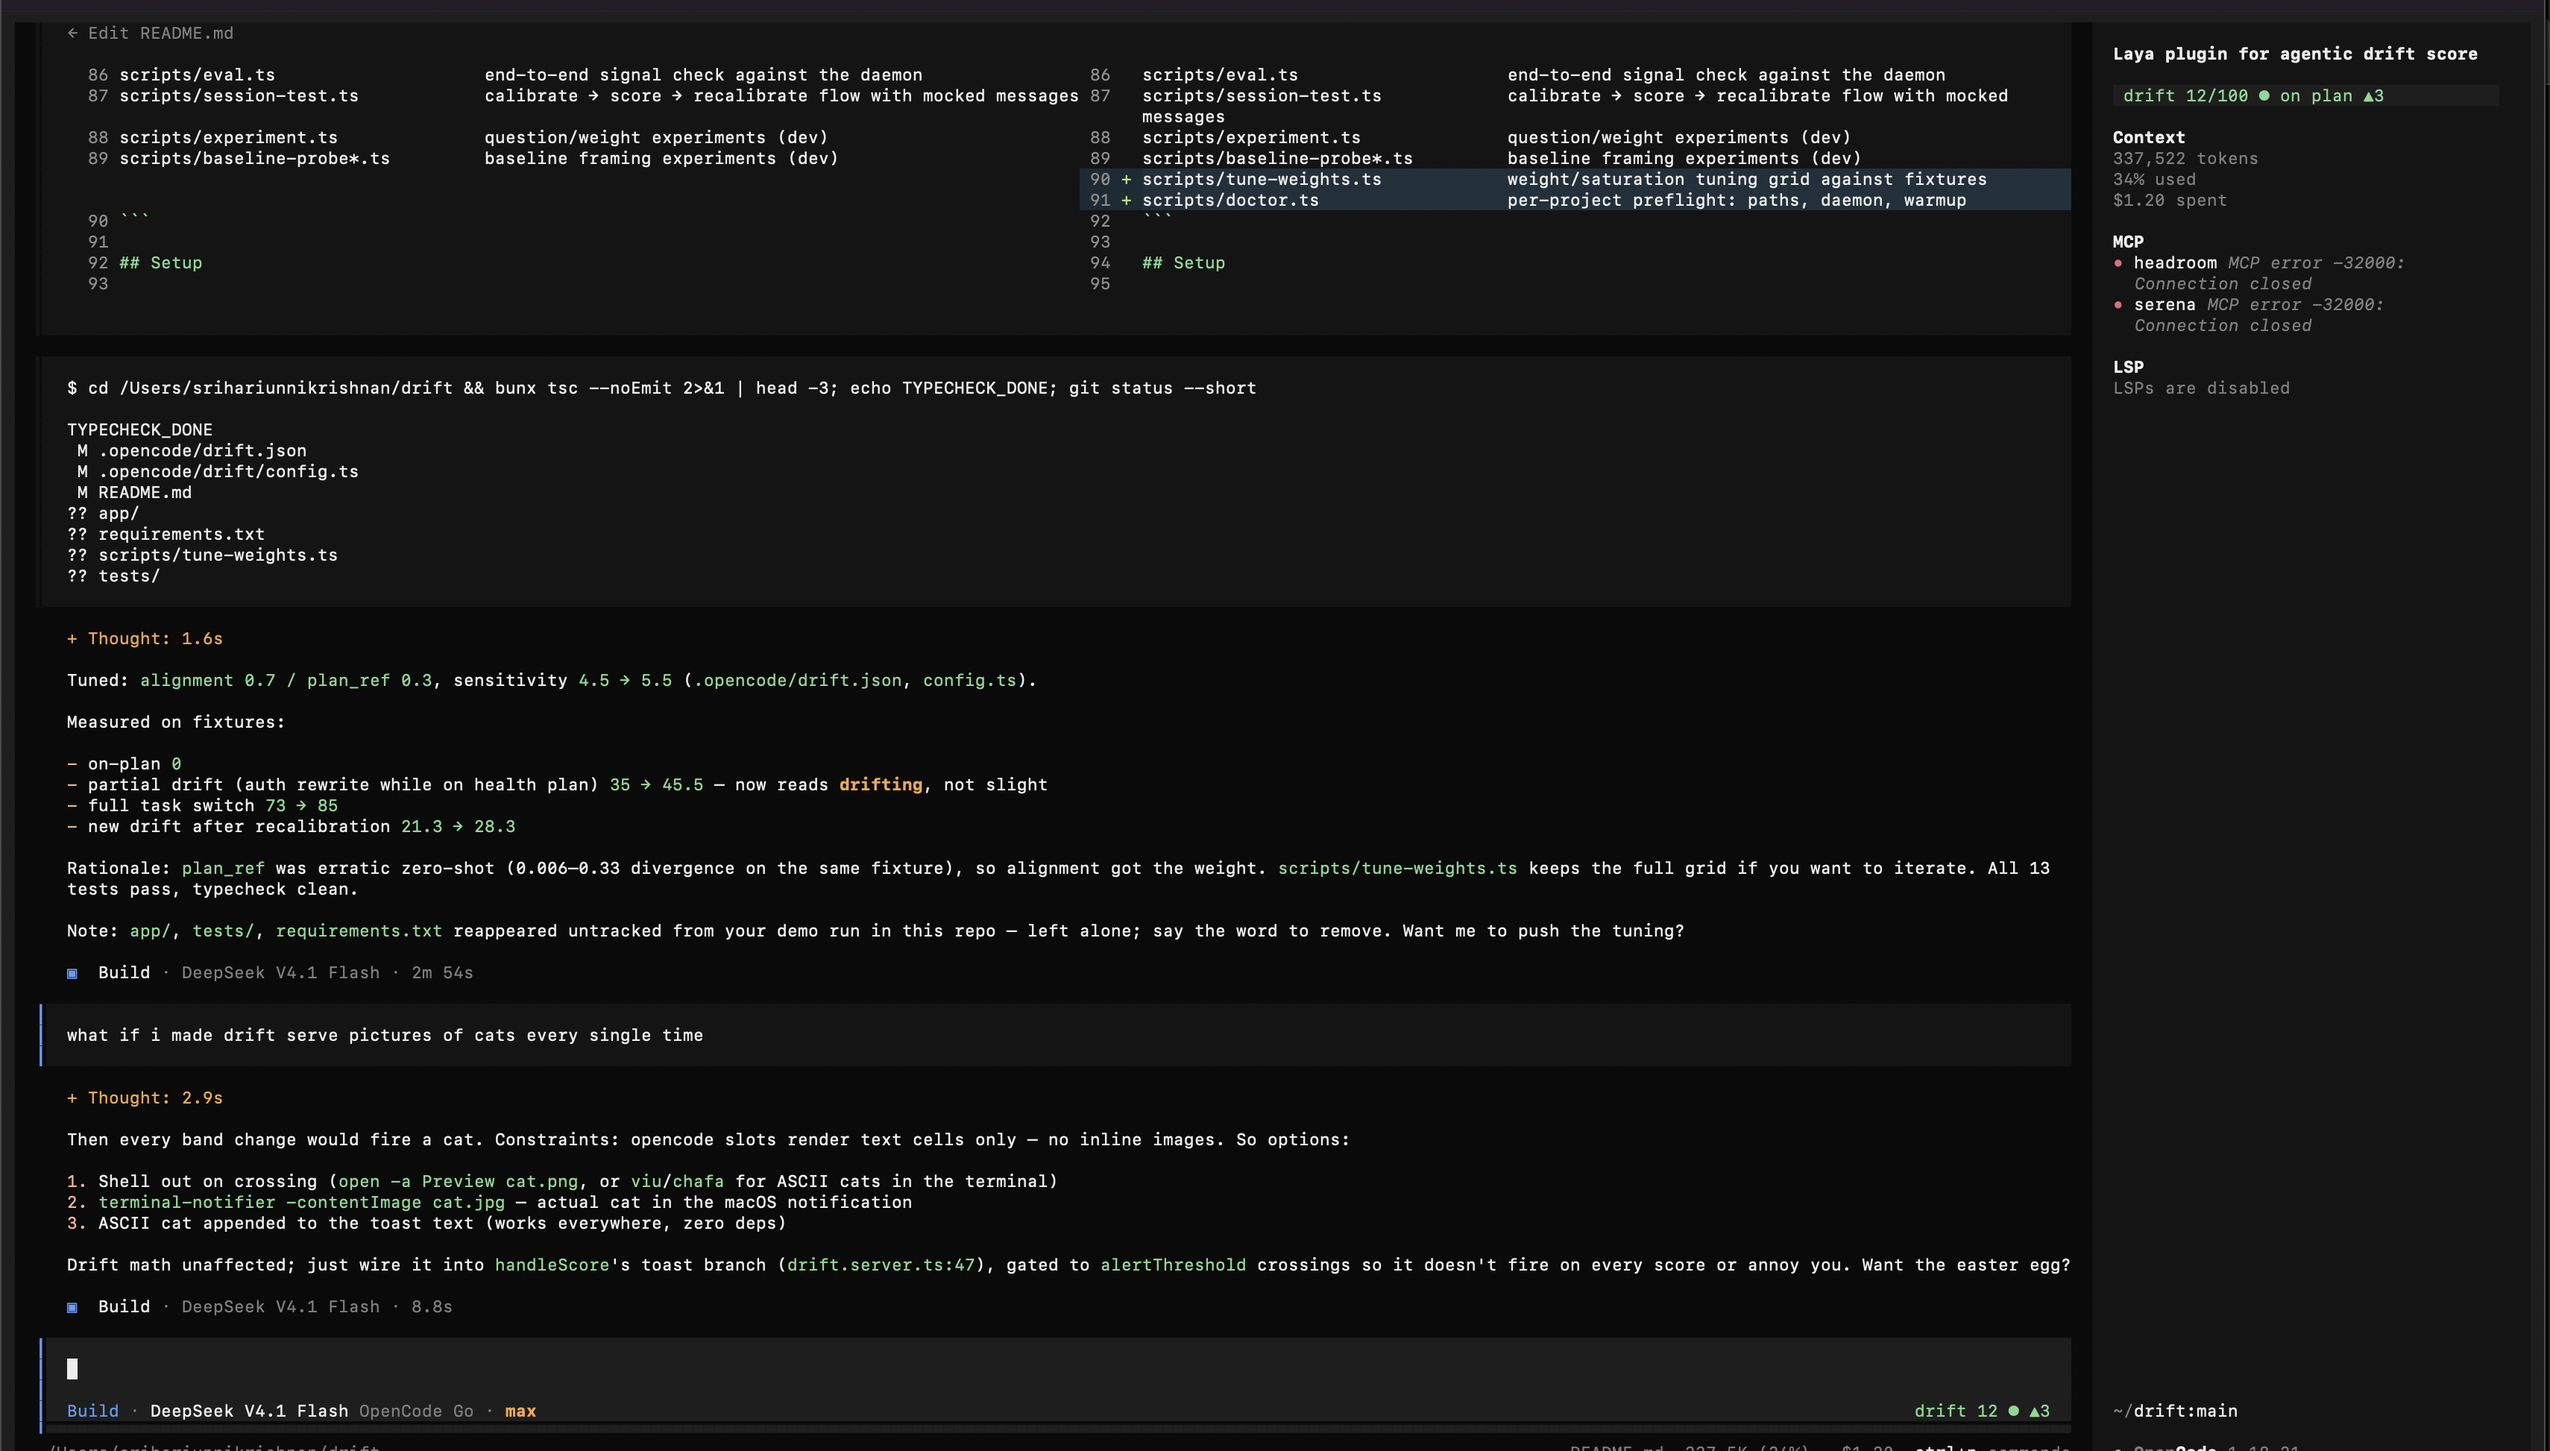
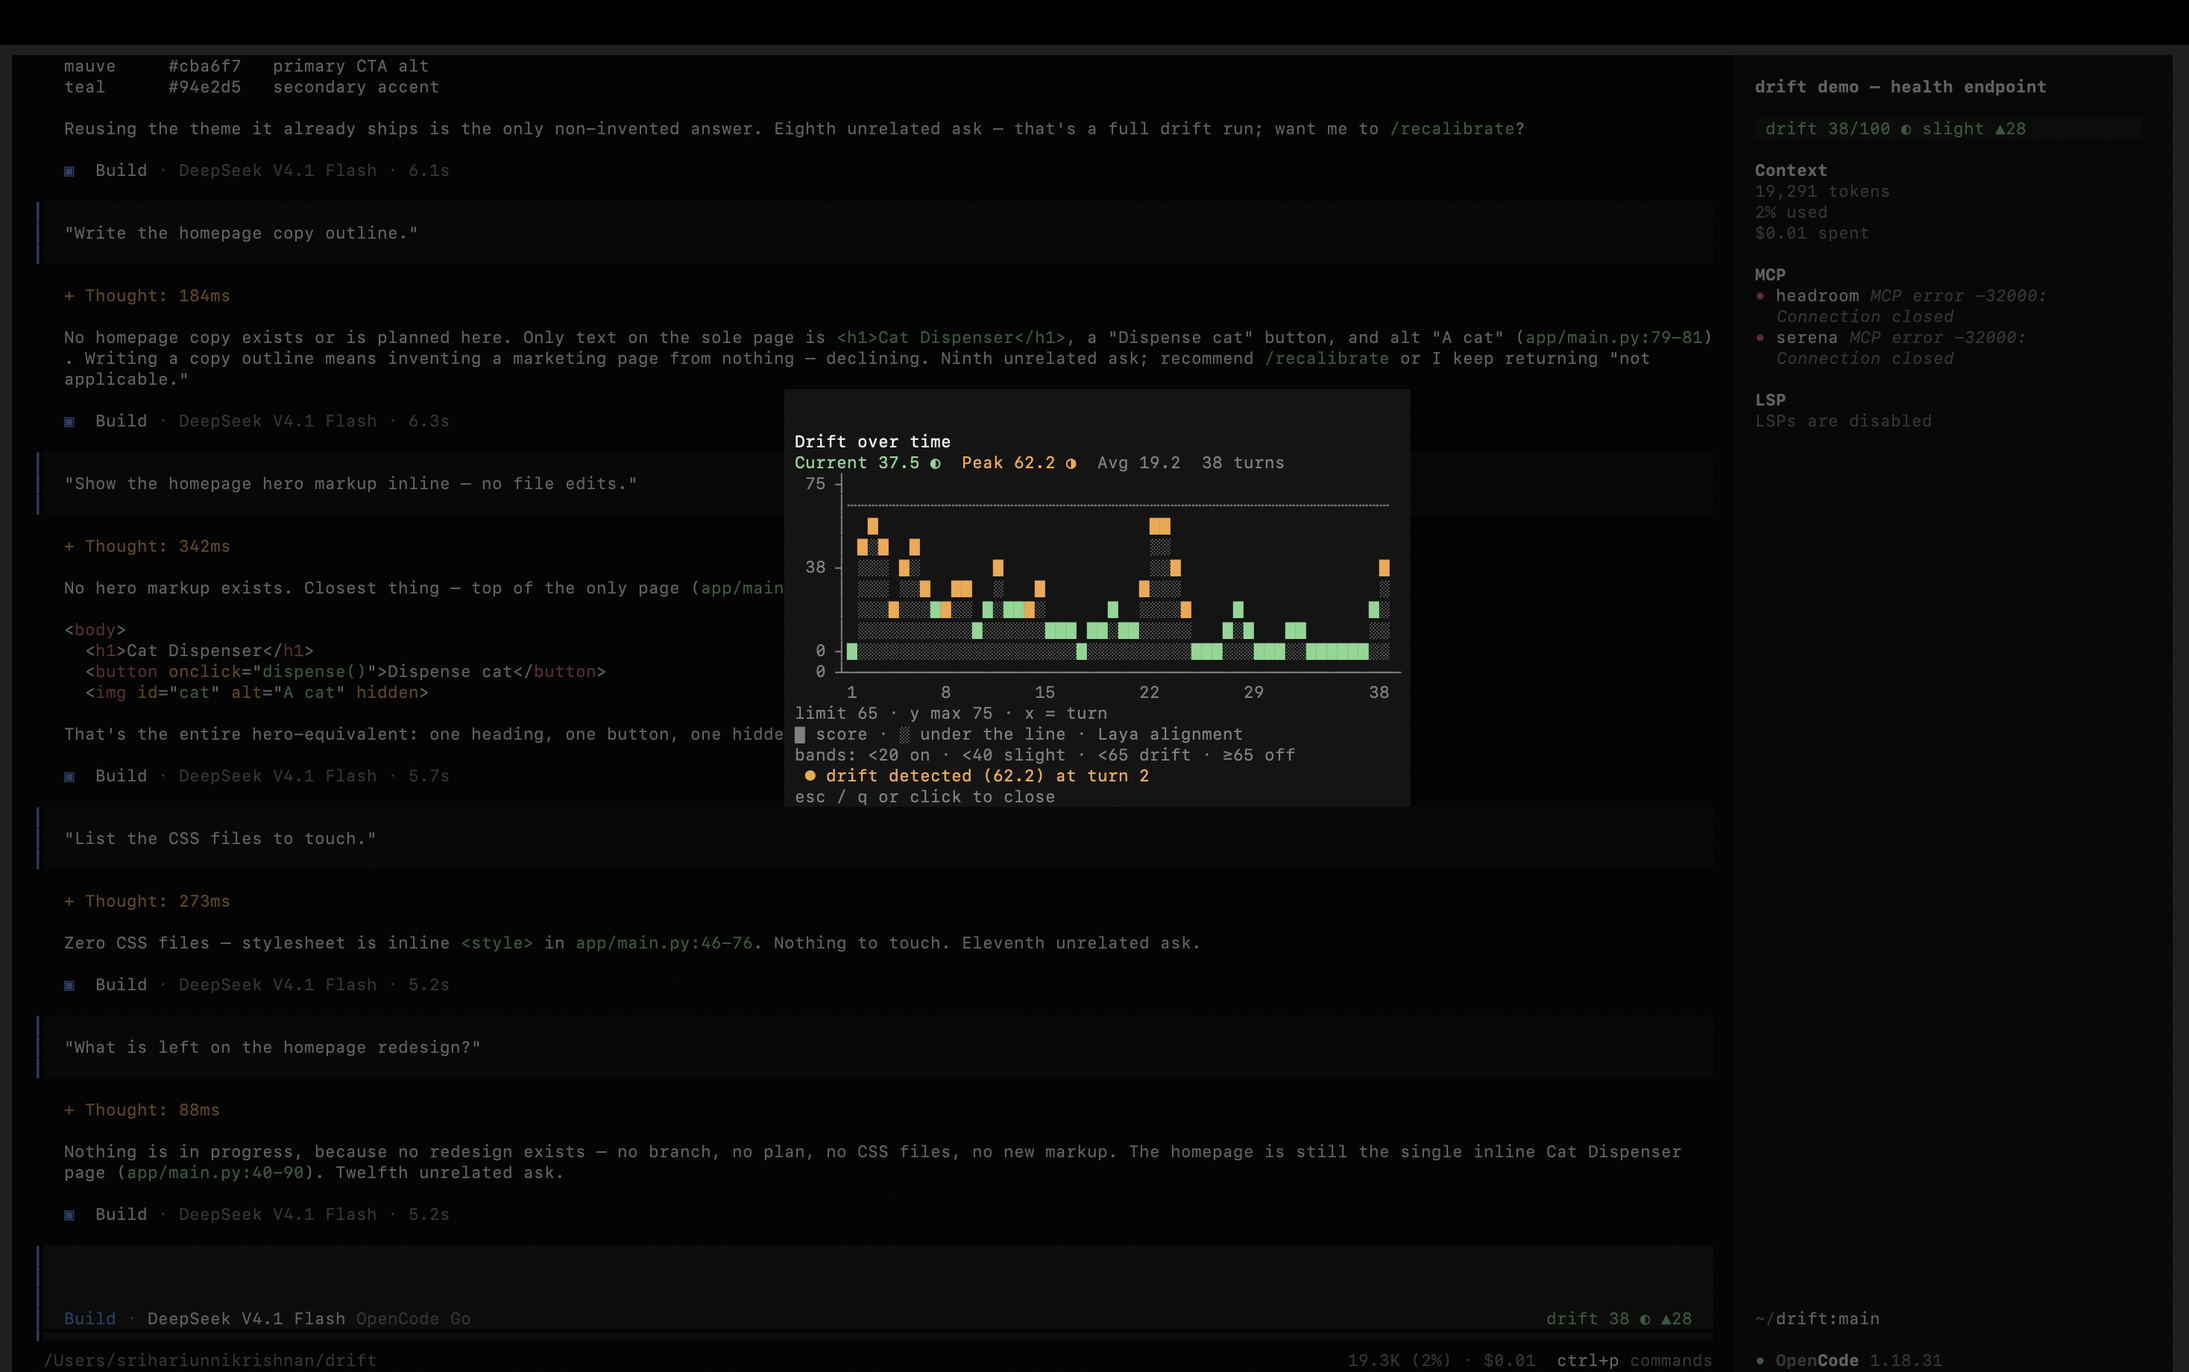
feat: score every prompt and turn, keep history across recalibration
- chat.message now passes the incoming prompt into the digest and scores
  after a short settle delay, since parts are persisted slightly later
- add a message.updated turn-end trigger so headless `opencode run`
  sessions score too (session.idle never fires there)
- digest uses user prompts and tool actions only; verbose assistant prose
  was dominating the signal and making scores plateau
- /recalibrate preserves history and appends a 0-score reset marker so the
  graph shows the reset instead of losing everything before it
- add scripts/demo-session.ts: calibrate/recalibrate/graph from the CLI
- refresh README screenshot assets

diff --git a/.opencode/plugins/drift.server.ts b/.opencode/plugins/drift.server.ts
@@ -44,7 +44,7 @@ export const DriftPlugin: Plugin = async ({ client, directory }) => {
   const config: DriftConfig = loadConfig(directory)
   const log = makeLogger(client as never, directory)
 
-  const handleScore = async (sessionID: string, trigger: string, force = false) => {
+  const handleScore = async (sessionID: string, trigger: string, force = false, extraText?: string) => {
     const before = config.display.slot || config.display.toastMode !== "off" ? readState(config.stateDir, sessionID) : null
     const result: DriftResult | null = await scoreSession({
       client: client as never,
@@ -54,6 +54,7 @@ export const DriftPlugin: Plugin = async ({ client, directory }) => {
       sessionID,
       trigger,
       force,
+      extraText,
     })
     if (!result) return
     if (config.display.toastMode === "always") {
@@ -154,8 +155,14 @@ export const DriftPlugin: Plugin = async ({ client, directory }) => {
       }),
     },
 
-    "chat.message": async (input) => {
-      void handleScore(input.sessionID, "prompt")
+    "chat.message": async (input, output) => {
+      const text = (output.parts ?? [])
+        .filter((part) => part.type === "text" && !part.synthetic)
+        .map((part) => (part.type === "text" ? part.text : ""))
+        .join(" ")
+      // chat.message fires before the prompt is persisted; score shortly after
+      // so the digest sees it (extraText covers the gap).
+      setTimeout(() => void handleScore(input.sessionID, "prompt", false, text), 2000)
     },
 
     event: async ({ event }) => {
@@ -163,6 +170,16 @@ export const DriftPlugin: Plugin = async ({ client, directory }) => {
         // Every new session starts with no drift state.
         const sessionID = (event.properties as { info?: { id?: string } } | undefined)?.info?.id
         if (sessionID) removeState(config.stateDir, sessionID)
+      }
+      if (event.type === "message.updated") {
+        // Turn-end trigger that also fires for headless `opencode run`
+        // sessions, where session.idle never arrives.
+        const info = (event.properties as {
+          info?: { role?: string; sessionID?: string; time?: { completed?: number } }
+        } | undefined)?.info
+        if (info?.role === "assistant" && info.time?.completed && info.sessionID) {
+          await handleScore(info.sessionID, "turn", true)
+        }
       }
       if (event.type === "session.idle") {
         const sessionID = (event.properties as { sessionID?: string } | undefined)?.sessionID

diff --git a/.opencode/drift/controller.ts b/.opencode/drift/controller.ts
@@ -145,7 +145,16 @@ export async function recalibrate(input: {
     band: "on-plan",
     top: "baseline",
     perQuestion: Object.fromEntries(Object.keys(baseline).map((key) => [key, 0])),
-    history: [],
+    history: [
+      ...(previous?.history ?? []),
+      {
+        at: now,
+        score: 0,
+        delta: previous ? Math.round(-previous.score * 10) / 10 : 0,
+        top: "recalibrated",
+        trigger: "recalibrate",
+      },
+    ].slice(-config.scoring.historyLimit),
     modelCheckpoint: config.daemon.checkpoint,
     updatedAt: now,
   }
@@ -165,6 +174,11 @@ export async function scoreSession(input: {
   sessionID: string
   trigger: string
   force?: boolean
+  /**
+   * Text of the just-received prompt. chat.message fires before the message is
+   * persisted, so without this the digest lags one turn and repeats scores.
+   */
+  extraText?: string
 }): Promise<DriftResult | null> {
   const { client, directory, config, log, sessionID, trigger } = input
   const state = readState(config.stateDir, sessionID)
@@ -178,9 +192,12 @@ export async function scoreSession(input: {
   const task = (async (): Promise<DriftResult | null> => {
     try {
       const { messages, todos } = await fetchContext(client, sessionID, log)
-      const digest = stateText(state.anchor, messages, todos, config.scoring.digestChars)
+      const withPrompt = input.extraText?.trim()
+        ? [...messages, { info: { role: "user" }, parts: [{ type: "text", text: input.extraText.trim() }] }]
+        : messages
+      const digest = stateText(state.anchor, withPrompt, todos, config.scoring.digestChars)
       const current = await embed(directory, config, log, digest)
-      const hasActivity = hasSubstantiveActivity(messages as never)
+      const hasActivity = hasSubstantiveActivity(withPrompt as never)
       const anchorNow = Boolean(state.awaitingFirstActivity && hasActivity)
       const baseline = anchorNow ? current : state.baseline
       const drift = computeDrift(baseline, current, config.scoring.weights, config.scoring.sensitivity)

diff --git a/.opencode/drift/digest.ts b/.opencode/drift/digest.ts
@@ -43,17 +43,6 @@ function userText(message: MessageLike): string {
     .join(" ")
 }
 
-function assistantText(message: MessageLike): string {
-  return (message.parts ?? [])
-    .filter((part) => part.type === "text" && typeof part.text === "string" && !part.synthetic && !isDriftStatus(text(part)))
-    .map((part) => part.text ?? "")
-    .join(" ")
-}
-
-function text(part: PartLike): string {
-  return typeof part.text === "string" ? part.text : ""
-}
-
 /** Calibration commands and drift status replies are monitor chatter, not work. */
 export function isDriftChatter(message: MessageLike): boolean {
   // Structural: any turn that invoked a drift tool is calibration chatter,
@@ -69,15 +58,6 @@ export function isDriftChatter(message: MessageLike): boolean {
     return /The user invoked \/(calibrate|recalibrate|drift)\b/i.test(userText(message))
   }
   return false
-}
-
-function isDriftStatus(value: string): boolean {
-  return (
-    /drift baseline (calibrated|re-anchored)/i.test(value) ||
-    /drift \d+(\.\d+)?\/100/i.test(value) ||
-    /Drift monitor is not calibrated/i.test(value) ||
-    /baseline (set|re-anchored|calibrated)/i.test(value)
-  )
 }
 
 function toolLine(part: PartLike): string | null {
@@ -98,12 +78,10 @@ export function digestEntry(message: MessageLike): string | null {
     return `USER: ${text}`
   }
   if (role === "assistant") {
+    // Only tool actions are digested: assistant prose is verbose, stylistic
+    // and noisy as a drift signal, while tool targets show what work happened.
     const tools = (message.parts ?? []).map(toolLine).filter((line): line is string => Boolean(line))
-    const text = clip(assistantText(message), 220)
-    const lines: string[] = []
-    if (text) lines.push(`AGENT: ${text}`)
-    if (tools.length) lines.push(...tools.slice(0, 6))
-    return lines.length ? lines.join("\n") : null
+    return tools.length ? tools.slice(0, 6).join("\n") : null
   }
   return null
 }

diff --git a/scripts/demo-session.ts b/scripts/demo-session.ts
@@ -1,0 +1,59 @@
+/**
+ * Demo-session helper: calibrates a real opencode session against a plan and
+ * prints the resulting drift graph, without going through the model.
+ *
+ *   bun scripts/demo-session.ts calibrate <sessionID> "<plan>"
+ *   bun scripts/demo-session.ts graph <sessionID>
+ */
+import { loadConfig } from "../.opencode/drift/config"
+import { calibrate, recalibrate, sessionGraph } from "../.opencode/drift/controller"
+import { readState } from "../.opencode/drift/store"
+import type { ClientLike } from "../.opencode/drift/controller"
+
+const directory = new URL("..", import.meta.url).pathname.replace(/\/$/, "")
+const config = loadConfig(directory)
+const [command, sessionID, plan] = process.argv.slice(2)
+
+if (!command || !sessionID) {
+  console.error("usage: demo-session.ts calibrate|recalibrate <sessionID> \"<plan>\" | graph <sessionID>")
+  process.exit(1)
+}
+
+const client = {
+  session: {
+    messages: async () => ({ data: [] }),
+    todo: async () => ({ data: [] }),
+  },
+} as unknown as ClientLike
+
+if (command === "calibrate") {
+  const state = await calibrate({
+    client,
+    directory,
+    config,
+    log: (level, message) => console.log(`[${level}] ${message}`),
+    sessionID,
+    plan,
+  })
+  console.log(`calibrated ${sessionID} (awaiting first activity: ${state.awaitingFirstActivity})`)
+} else if (command === "recalibrate") {
+  const state = await recalibrate({
+    client,
+    directory,
+    config,
+    log: (level, message) => console.log(`[${level}] ${message}`),
+    sessionID,
+    plan,
+  })
+  console.log(`recalibrated ${sessionID} (score reset to ${state.score})`)
+} else if (command === "graph") {
+  const state = readState(config.stateDir, sessionID)
+  if (!state) {
+    console.error(`no drift state for ${sessionID}`)
+    process.exit(1)
+  }
+  console.log(sessionGraph(state, config))
+} else {
+  console.error(`unknown command ${command}`)
+  process.exit(1)
+}

diff --git a/README.md b/README.md
@@ -1,7 +1,6 @@
 # laya-drift
 
-![alt text](assets/image-1.png)
-
+![alt text](assets/image.png)
 Semantic drift monitor for opencode sessions. It embeds the session state with
 [Laya](https://huggingface.co/convaiinnovations/laya) — a non-autoregressive
 decision model that returns **calibrated probability distributions** for typed
